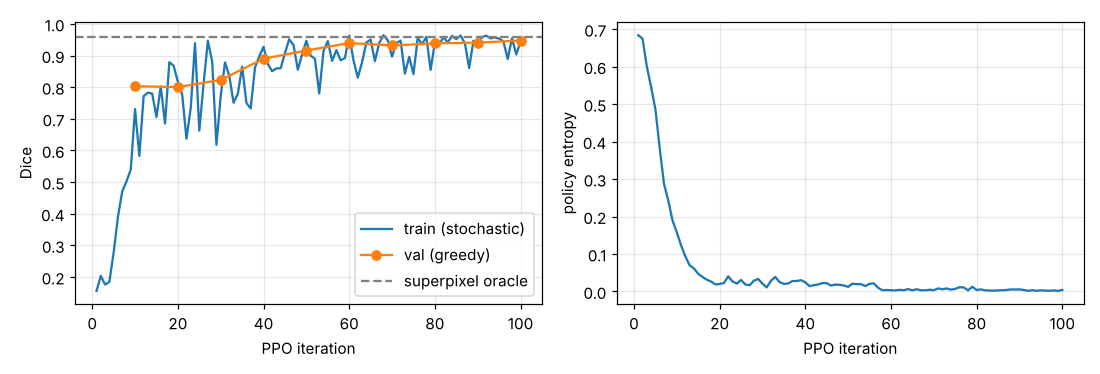
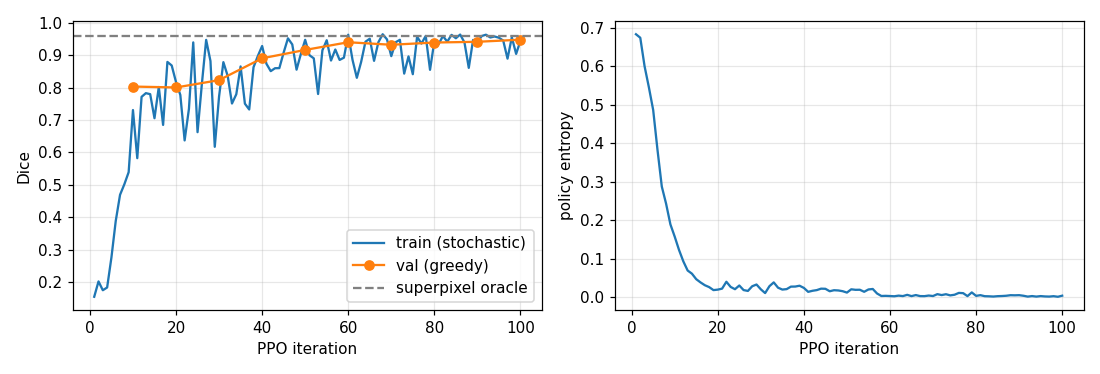
feat: add evaluation script for model checkpoints and validation metrics

Changed region(s): [[0.0, 0.0294, 0.9891, 0.9118], [0.7109, 0.9118, 0.8345, 0.9706], [0.2164, 0.9118, 0.34, 0.9706]]

diff --git a/evaluate.py b/evaluate.py
@@ -35,8 +35,13 @@ def main():
     out = os.path.dirname(a.ckpt)
 
     _, val_g = get_graphs(args)
-    model = GraphActorCritic(NODE_FEAT_DIM + 3, args.hidden, args.layers).to(device)
-    model.load_state_dict(ck["model"])
+    use_gat = getattr(args, "use_gat", False)
+    gat_heads = getattr(args, "gat_heads", 4)
+    cnn = getattr(args, "cnn_features", False)
+    in_dim = (140 if cnn else NODE_FEAT_DIM) + 3
+    model = GraphActorCritic(in_dim, args.hidden, args.layers, use_gat=use_gat, gat_heads=gat_heads).to(device)
+    sd = {k.replace("layers.", "gnn_layers.", 1) if k.startswith("layers.") else k: v for k, v in ck["model"].items()}
+    model.load_state_dict(sd)
 
     r = evaluate_policy(model, val_g, device, return_labels=True)
     metrics = dict(val_dice=r["dice"], val_iou=r["iou"], oracle_dice=oracle_dice(val_g), n_val=len(val_g))
